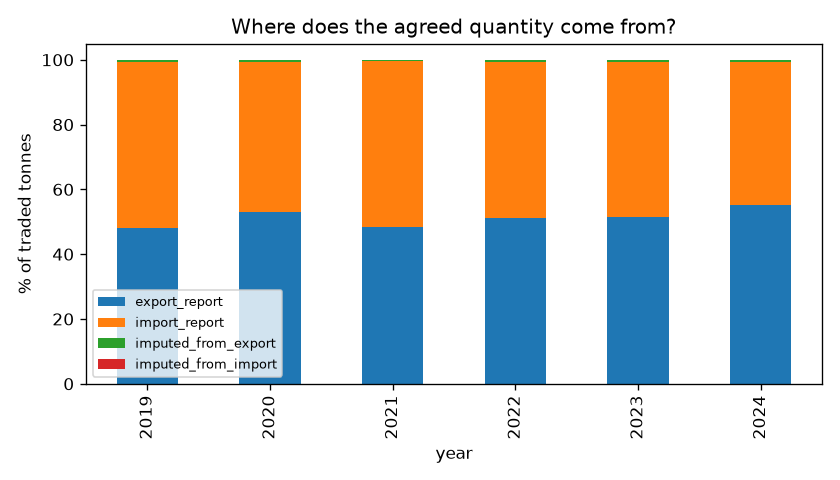
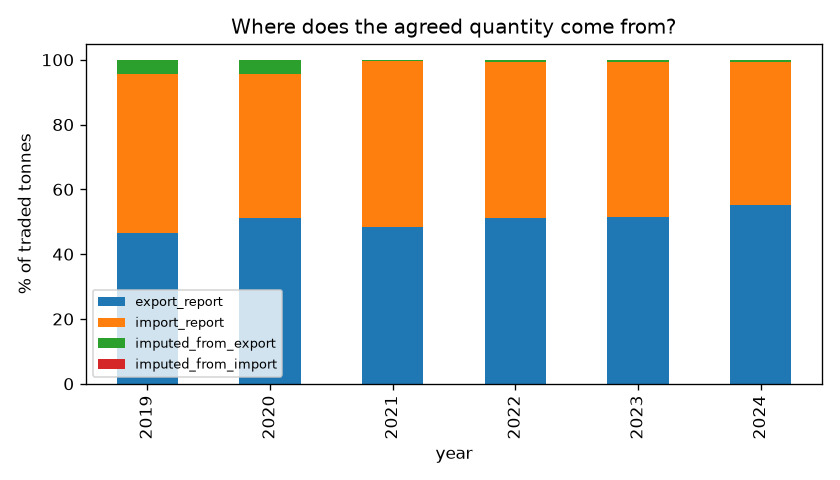
feat: show not-yet-downloaded reporter-years separately in coverage

diff --git a/src/ptf/clean/dq_report.py b/src/ptf/clean/dq_report.py
@@ -17,11 +17,21 @@ matplotlib.use("Agg")  # render to files, no window needed (works in CI and Dock
 import matplotlib.pyplot as plt  # noqa: E402
 import pandas as pd  # noqa: E402
 
+from ptf.ingest.comtrade import raw_path  # noqa: E402
+
 # --- tables --------------------------------------------------------------------------------
 
 
-def coverage_table(reports_path: Path) -> pd.DataFrame:
-    """Number of partner reports per reporter (rows) and year (columns); 0 = did not report."""
+def coverage_table(
+    reports_path: Path, raw_dir: Path, reporters: list[str], years: list[int]
+) -> pd.DataFrame:
+    """Partner reports per reporter (rows) and year (columns) for all expected reporters.
+
+    Three states per cell:
+    - a positive count: the country reported
+    - 0: we asked Comtrade, but the country has no data for that year
+    - <NA>: not downloaded yet (e.g. stopped by the daily API quota)
+    """
     long = duckdb.sql(
         f"""
         SELECT reporter_iso3, year, count(*) AS reports
@@ -29,12 +39,17 @@ def coverage_table(reports_path: Path) -> pd.DataFrame:
         GROUP BY reporter_iso3, year
         """
     ).df()
-    return (
+    counts = (
         long.pivot(index="reporter_iso3", columns="year", values="reports")
-        .fillna(0)
-        .astype(int)
-        .sort_index()
+        .reindex(index=sorted(reporters), columns=years)
+        .astype("Int64")
     )
+    for iso3 in counts.index:
+        for year in years:
+            fetched = raw_path(raw_dir, iso3, year).exists()
+            if pd.isna(counts.loc[iso3, year]) and fetched:
+                counts.loc[iso3, year] = 0
+    return counts
 
 
 def mirror_summary(mirror: pd.DataFrame) -> pd.DataFrame:
@@ -130,13 +145,21 @@ def to_markdown(table: pd.DataFrame, decimals: int = 1) -> str:
 
 
 def _plot_coverage(coverage: pd.DataFrame, path: Path) -> None:
-    fig, ax = plt.subplots(figsize=(6, 9))
-    ax.imshow(coverage.to_numpy() > 0, cmap="Greens", aspect="auto", vmin=0, vmax=1.4)
+    # Colour codes: 2 = reported, 1 = no data at Comtrade, 0 = not downloaded yet.
+    state = coverage.notna().astype(int) + (coverage.fillna(0) > 0).astype(int)
+    colours = matplotlib.colors.ListedColormap(["#d9d9d9", "#f4a582", "#5aae61"])
+    fig, ax = plt.subplots(figsize=(6, 10))
+    ax.imshow(state.to_numpy(), cmap=colours, aspect="auto", vmin=0, vmax=2)
     ax.set_xticks(range(len(coverage.columns)), [str(c) for c in coverage.columns])
     ax.set_yticks(range(len(coverage.index)), coverage.index)
-    for (i, j), value in pd.DataFrame(coverage.to_numpy()).stack().items():
-        ax.text(j, i, str(value), ha="center", va="center", fontsize=7)
-    ax.set_title("Reports per reporter and year (0 = no data)")
+    for i, iso3 in enumerate(coverage.index):
+        for j, year in enumerate(coverage.columns):
+            value = coverage.loc[iso3, year]
+            label = "n/f" if pd.isna(value) else str(value)
+            ax.text(j, i, label, ha="center", va="center", fontsize=7)
+    ax.set_title(
+        "Reports per reporter and year\n(green: reported, red: no data, grey: not fetched)"
+    )
     fig.tight_layout()
     fig.savefig(path, dpi=120)
     plt.close(fig)
@@ -167,7 +190,9 @@ def _plot_basis_share(share: pd.DataFrame, path: Path) -> None:
     plt.close(fig)
 
 
-def build_report(clean_dir: Path, docs_dir: Path) -> Path:
+def build_report(
+    clean_dir: Path, docs_dir: Path, raw_dir: Path, reporters: list[str], years: list[int]
+) -> Path:
     """Compute all tables and charts and write the Markdown report. Returns its path."""
     reports_path = clean_dir / "trade_reports.parquet"
     flows_path = clean_dir / "bilateral_flows.parquet"
@@ -176,7 +201,7 @@ def build_report(clean_dir: Path, docs_dir: Path) -> Path:
     flows = pd.read_parquet(flows_path)
     latest_year = int(flows["year"].max())
 
-    coverage = coverage_table(reports_path)
+    coverage = coverage_table(reports_path, raw_dir, reporters, years)
     mirror_stats = mirror_summary(mirror)
     shares = basis_share(flows)
     outliers = outlier_summary(reports)
@@ -195,6 +220,7 @@ def build_report(clean_dir: Path, docs_dir: Path) -> Path:
         "Method and rules: [methodology.md](methodology.md).",
         "## 1. Coverage: reports per reporter and year",
         "![coverage](figures/dq_coverage.png)",
+        "`<NA>` = not downloaded yet, 0 = Comtrade has no data for this reporter and year.",
         to_markdown(coverage.reset_index()),
         "## 2. Mirror statistics (quantities)",
         "![mirror gaps](figures/dq_mirror_gaps.png)",

diff --git a/tests/test_pipeline.py b/tests/test_pipeline.py
@@ -6,6 +6,7 @@ from pathlib import Path
 
 import pandas as pd
 
+from ptf.clean.dq_report import coverage_table
 from ptf.config import Settings
 from ptf.pipeline import run_clean, run_report
 from ptf.pipeline_config import load_pipeline_config
@@ -29,6 +30,8 @@ def write_raw_layer(raw_dir: Path) -> None:
     areas = json.loads((FIXTURES / "partner_areas.json").read_text())["results"]
     (raw_dir / "comtrade_reference").mkdir()
     pd.DataFrame(areas).to_parquet(raw_dir / "comtrade_reference" / "partnerAreas.parquet")
+    reporters = json.loads((FIXTURES / "reporters.json").read_text())["results"]
+    pd.DataFrame(reporters).to_parquet(raw_dir / "comtrade_reference" / "Reporters.parquet")
 
     (raw_dir / "brent").mkdir()
     shutil.copy(FIXTURES / "brent_sample.csv", raw_dir / "brent" / "DCOILBRENTEU.csv")
@@ -41,7 +44,7 @@ def test_clean_and_report_steps(tmp_path: Path) -> None:
     config = load_pipeline_config(REPO_ROOT / "config" / "pipeline.yaml")
 
     run_clean(settings, regions, config)
-    run_report(settings)
+    run_report(settings, regions, config)
 
     flows = pd.read_parquet(settings.clean_dir / "bilateral_flows.parquet")
     usa_deu = flows[(flows["exporter_iso3"] == "USA") & (flows["importer_iso3"] == "DEU")]
@@ -52,3 +55,23 @@ def test_clean_and_report_steps(tmp_path: Path) -> None:
     assert "Mirror statistics" in report
     assert (settings.docs_dir / "figures" / "dq_mirror_gaps.png").exists()
     assert (settings.clean_dir / "brent_annual.parquet").exists()
+
+
+def test_coverage_separates_no_data_from_not_downloaded(tmp_path: Path) -> None:
+    settings = Settings(_env_file=None, data_dir=tmp_path / "data", docs_dir=tmp_path / "docs")
+    write_raw_layer(settings.raw_dir)
+    pd.DataFrame().to_parquet(settings.raw_dir / "comtrade" / "USA_2024.parquet")  # no data
+    regions = load_regions(REPO_ROOT / "config" / "regions.yaml")
+    config = load_pipeline_config(REPO_ROOT / "config" / "pipeline.yaml")
+    run_clean(settings, regions, config)
+
+    coverage = coverage_table(
+        settings.clean_dir / "trade_reports.parquet",
+        settings.raw_dir,
+        reporters=["DEU", "USA", "CHN"],
+        years=[2023, 2024],
+    )
+
+    assert coverage.loc["DEU", 2023] == 10  # 12 fixture rows minus the two "World" rows
+    assert coverage.loc["USA", 2024] == 0  # asked, but no data
+    assert pd.isna(coverage.loc["CHN", 2023])  # never downloaded

diff --git a/src/ptf/pipeline.py b/src/ptf/pipeline.py
@@ -71,8 +71,16 @@ def run_clean(settings: Settings, regions: RegionConfig, config: PipelineConfig)
     logger.info("clean layer: %s reports, %s bilateral flows", len(reports), len(flows))
 
 
-def run_report(settings: Settings) -> None:
-    path = build_report(settings.clean_dir, settings.docs_dir)
+def run_report(settings: Settings, regions: RegionConfig, config: PipelineConfig) -> None:
+    reporters_path = settings.raw_dir / "comtrade_reference" / "Reporters.parquet"
+    reporters = comtrade.reporter_codes(pd.read_parquet(reporters_path), regions.countries())
+    path = build_report(
+        settings.clean_dir,
+        settings.docs_dir,
+        settings.raw_dir,
+        list(reporters),
+        config.comtrade.years,
+    )
     logger.info("report written to %s", path)
 
 
@@ -91,7 +99,7 @@ def main(argv: list[str] | None = None) -> None:
     if args.step in ("clean", "all"):
         run_clean(settings, regions, config)
     if args.step in ("report", "all"):
-        run_report(settings)
+        run_report(settings, regions, config)
 
 
 if __name__ == "__main__":

diff --git a/docs/data_quality.md b/docs/data_quality.md
@@ -8,6 +8,8 @@ Method and rules: [methodology.md](methodology.md).
 
 ![coverage](figures/dq_coverage.png)
 
+`<NA>` = not downloaded yet, 0 = Comtrade has no data for this reporter and year.
+
 | reporter_iso3 | 2019 | 2020 | 2021 | 2022 | 2023 | 2024 |
 |---|---|---|---|---|---|---|
 | ARE | 163 | 175 | 199 | 181 | 185 | 0 |
@@ -16,17 +18,31 @@ Method and rules: [methodology.md](methodology.md).
 | BRA | 137 | 140 | 157 | 139 | 135 | 138 |
 | CAN | 115 | 112 | 113 | 108 | 112 | 120 |
 | CHL | 59 | 56 | 68 | 73 | 56 | 61 |
+| CHN | <NA> | <NA> | <NA> | <NA> | <NA> | <NA> |
 | DEU | 195 | 192 | 188 | 195 | 186 | 195 |
+| EGY | <NA> | <NA> | <NA> | <NA> | <NA> | <NA> |
 | FRA | 176 | 188 | 191 | 190 | 183 | 192 |
 | GBR | 165 | 160 | 164 | 169 | 163 | 164 |
+| HKG | <NA> | <NA> | <NA> | <NA> | <NA> | <NA> |
+| IDN | <NA> | <NA> | <NA> | <NA> | <NA> | <NA> |
+| IND | <NA> | <NA> | <NA> | <NA> | <NA> | <NA> |
+| IRN | <NA> | <NA> | <NA> | <NA> | <NA> | <NA> |
 | ITA | 173 | 170 | 181 | 180 | 177 | 178 |
+| JPN | <NA> | <NA> | <NA> | <NA> | <NA> | <NA> |
+| KOR | <NA> | <NA> | <NA> | <NA> | <NA> | <NA> |
 | MEX | 64 | 65 | 50 | 48 | 47 | 53 |
+| MYS | <NA> | <NA> | <NA> | <NA> | <NA> | <NA> |
 | NLD | 171 | 173 | 193 | 193 | 200 | 177 |
 | POL | 124 | 135 | 133 | 137 | 139 | 128 |
+| QAT | 130 | 129 | <NA> | <NA> | <NA> | <NA> |
 | RUS | 99 | 107 | 118 | 0 | 0 | 0 |
 | SAU | 180 | 179 | 167 | 173 | 175 | 179 |
+| SGP | <NA> | <NA> | <NA> | <NA> | <NA> | <NA> |
+| THA | <NA> | <NA> | <NA> | <NA> | <NA> | <NA> |
 | TUR | 153 | 156 | 173 | 178 | 175 | 193 |
 | USA | 225 | 209 | 216 | 207 | 217 | 221 |
+| VNM | <NA> | <NA> | <NA> | <NA> | <NA> | <NA> |
+| ZAF | <NA> | <NA> | <NA> | <NA> | <NA> | <NA> |
 
 ## 2. Mirror statistics (quantities)
 
@@ -34,8 +50,8 @@ Method and rules: [methodology.md](methodology.md).
 
 | year | relations_total | relations_with_both_reports | median_abs_gap_pct | share_within_10pct | share_within_25pct | median_cif_fob_ratio |
 |---|---|---|---|---|---|---|
-| 2019 | 2191 | 206 | 38.7 | 21.4 | 41.3 | 1.3 |
-| 2020 | 2223 | 212 | 32.9 | 22.2 | 45.3 | 1.2 |
+| 2019 | 2302 | 214 | 40.1 | 20.6 | 41.1 | 1.3 |
+| 2020 | 2332 | 220 | 32.9 | 22.3 | 45.0 | 1.2 |
 | 2021 | 2325 | 205 | 25.6 | 29.8 | 48.3 | 1.2 |
 | 2022 | 2187 | 179 | 31.1 | 26.8 | 44.7 | 1.2 |
 | 2023 | 2164 | 175 | 36.9 | 21.1 | 41.1 | 1.2 |
@@ -62,8 +78,8 @@ Method and rules: [methodology.md](methodology.md).
 
 | year | export_report | import_report | imputed_from_export | imputed_from_import | estimated_by_comtrade |
 |---|---|---|---|---|---|
-| 2019 | 48.2 | 51.1 | 0.7 | 0.1 | 39.2 |
-| 2020 | 53.1 | 46.3 | 0.6 | 0.0 | 12.0 |
+| 2019 | 46.4 | 49.3 | 4.2 | 0.1 | 37.8 |
+| 2020 | 51.0 | 44.6 | 4.4 | 0.0 | 11.5 |
 | 2021 | 48.4 | 51.0 | 0.3 | 0.2 | 16.2 |
 | 2022 | 51.3 | 48.1 | 0.4 | 0.1 | 19.7 |
 | 2023 | 51.3 | 48.0 | 0.4 | 0.2 | 35.7 |
@@ -74,9 +90,9 @@ Method and rules: [methodology.md](methodology.md).
 | year | flow | reports_with_unit_value | outliers | median_unit_value_usd_t | outlier_tonnage_pct |
 |---|---|---|---|---|---|
 | 2019 | export | 1459 | 148 | 1,306.0 | 0.1 |
-| 2019 | import | 895 | 81 | 1,387.1 | 0.1 |
+| 2019 | import | 918 | 83 | 1,389.8 | 0.1 |
 | 2020 | export | 1489 | 127 | 1,145.0 | 0.1 |
-| 2020 | import | 902 | 80 | 1,225.7 | 0.1 |
+| 2020 | import | 921 | 81 | 1,231.4 | 0.1 |
 | 2021 | export | 1514 | 126 | 1,715.6 | 0.1 |
 | 2021 | import | 984 | 134 | 1,805.0 | 0.3 |
 | 2022 | export | 1439 | 89 | 1,905.0 | 0.0 |
